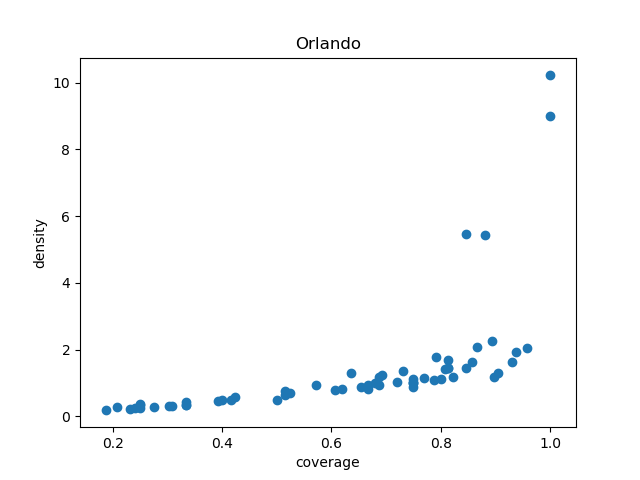
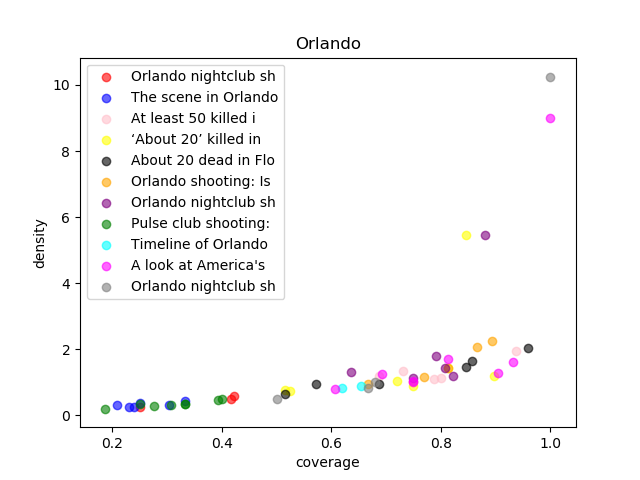
tfidf prep

diff --git a/scripts/metrics.py b/scripts/metrics.py
@@ -3,6 +3,8 @@ import jsonl
 from ASData import ASData
 from fragments import Fragments
 import matplotlib.pyplot as plt
+import matplotlib.colors
+import numpy as np
 
 """Creates matrix of article-summary pairs stored as ASData objects"""
 def data_matrix(event):
@@ -57,6 +59,16 @@ def data_matrix(event):
             [0,1,2,4,5,6,7,8]
         ]
 
+    elif event == 'hurricaneSandy':
+        summary_lists = [
+            [0,2,3,4],
+            [0,1,4],
+            [1,2,3],
+            [3,5],
+            [0,1,2,4],
+            [2,4,5]
+        ]
+
     else:
         raise InputError('You did not input a valid event.')
 
@@ -64,39 +76,64 @@ def data_matrix(event):
     num = 0
     for article in articles:
         text = article['text']
+        title = article['title']
         entries = []
         for index in range(len(summaries)):
             summary = summaries[index]
             if index in summary_lists[num]:
                 #print('in if')
                 fragments = Fragments(summary, text)
-                obj = ASData(article, summary, True, fragments.coverage(), fragments.density(), fragments.compression())
+                obj = ASData(article, summary, title, True, fragments.coverage(),
+                    fragments.density(), fragments.compression())
                 entries.append(obj)
             else:
                 #print('in else')
-                obj = ASData(article, summary, False)
+                obj = ASData(article, summary, title, False)
                 entries.append(obj)
         matrix.append(entries)
         num += 1
 
     return matrix
 
-"""Generates a scatter plot for the inputted matrix"""
-def plot(matrix, event):
-    coverages = []
-    densities = []
-    for x in matrix:
-        for obj in x:
-            if obj.getMatch() == True:
-                coverages.append(obj.getCoverage())
-                densities.append(obj.getDensity())
+"""Generates a scatter plot showing the relationship between coverage and
+density for the inputted matrix"""
+def cdplot(matrix, event):
+    colors = ['red','blue','pink','yellow','black','orange','purple','green','cyan',
+    'magenta','grey']
     plt.title(event)
     plt.xlabel('coverage')
     plt.ylabel('density')
-    plt.scatter(coverages, densities, marker = 'o')
+    for x in range(len(matrix)):
+        coverages = []
+        densities = []
+        title = matrix[x][0].getTitle()[:20]
+        for obj in matrix[x]:
+            if obj.getMatch() == True:
+                coverages.append(obj.getCoverage())
+                densities.append(obj.getDensity())
+        plt.scatter(coverages, densities, marker = 'o', c=colors[x], label=title, alpha=0.6)
+    plt.legend()
     plt.savefig('../events/data/'+event+'.png')
+    plt.show()
+
+"""Generates a dot plot for the compression for the inputted matrix"""
+def complot(matrix, event):
+    colors = ['red','blue','pink','yellow','black','orange','purple','green','cyan',
+    'magenta','grey']
+    plt.title(event)
+    plt.xlabel('article')
+    plt.ylabel('compression')
+    for x in range(len(matrix)):
+        compressions = []
+        title = matrix[x][0].getTitle()[:20]
+        for obj in matrix[x]:
+            if obj.getMatch() == True:
+                compressions.append(obj.getCompression())
+        plt.scatter([x]*len(compressions), compressions, marker='o', c=colors[x], label=title, alpha=0.6)
+    plt.legend()
+    plt.savefig('../events/data/'+event+'_comp.png')
     plt.show()
 
 if __name__ == '__main__':
     event = input('event: ')
-    plot(data_matrix(event), event)
+    complot(data_matrix(event), event)

diff --git a/scripts/tfidf_calc.py b/scripts/tfidf_calc.py
@@ -1,0 +1,46 @@
+import jsonl
+import re
+import nltk
+from nltk.corpus import stopwords
+import gensim.downloader as api
+from gensim.models import TfidfModel
+from gensim.corpora import Dictionary
+
+def create_dictionary():
+    path = '../dataset_files/train.jsonl.gz'
+    with jsonl.open('../events/Orlando.jsonl', gzip=False) as file:
+        dataset = file.read()
+    dict = Dictionary([])
+    for article in dataset:
+        text = preprocess(article['text'])
+        dict.add_documents([text])
+    with jsonl.open('../dataset_files/test.jsonl') as dict_file:
+        dict_file.write(dict)
+    return dict
+
+def filter_stopwords(words):
+    stop_words = set(stopwords.words('english'))
+    filtered_words = []
+    for word in words:
+        if word not in stop_words:
+            filtered_words.append(word)
+    return filtered_words
+
+def remove_punc(words):
+    intab = '[‘’“!"%&()*+,-./:;<=>?@[\\]^_`{|}~]”'
+    outtab = '                                   '
+    trantab = str.maketrans(intab, outtab)
+    return words.translate(trantab)
+
+def preprocess(s):
+    s = remove_punc(s)
+    s = s.lower()
+    s = re.sub('\s+',' ',s)
+    s = s.rstrip(' ')
+    s = s.lstrip(' ')
+    s = s.split(' ')
+    s = filter_stopwords(s)
+    return s
+
+if __name__ == '__main__':
+    create_dictionary()

diff --git a/scripts/ASData.py b/scripts/ASData.py
@@ -7,12 +7,14 @@ class ASData(object):
         _coverage [float]: the coverage for the article-summary pair
         _density [float]: the density for the article-summary pair
         _compression [float]: the compression for the article-summary pair
+        _title [str]: the title of the article
         """
 
-    def __init__(self, article, summary, match, coverage = None, density = None, compression = None):
+    def __init__(self, article, summary, title, match, coverage = None, density = None, compression = None):
         self._match = match
         self._article = article
         self._summary = summary
+        self._title = title
         if match == True:
             self._coverage = coverage
             self._density = density
@@ -20,6 +22,9 @@ class ASData(object):
 
     def getMatch(self):
         return self._match
+
+    def getTitle(self):
+        return self._title
 
     def getCoverage(self):
         return self._coverage

diff --git a/scripts/add_to_jsonl.py b/scripts/add_to_jsonl.py
@@ -1,5 +1,4 @@
-import gzip
-from jsonl import openJsonl
+import jsonl
 import sys
 
 def length():
@@ -18,7 +17,7 @@ def main():
         path = "../dataset_files/train.jsonl.gz"
         data = []
         article = {}
-        with openJsonl(path, gzip = True) as train_file:
+        with jsonl.open(path, gzip = True) as train_file:
             train = train_file.read()
             for ln in train:
                 if ln['archive'] == link:
@@ -27,7 +26,7 @@ def main():
                     break
 
         try:
-            with openJsonl(fileName) as file:
+            with jsonl.open(fileName) as file:
                 file.appendline(article)
         except:
             with open(fileName, 'w+') as file:
